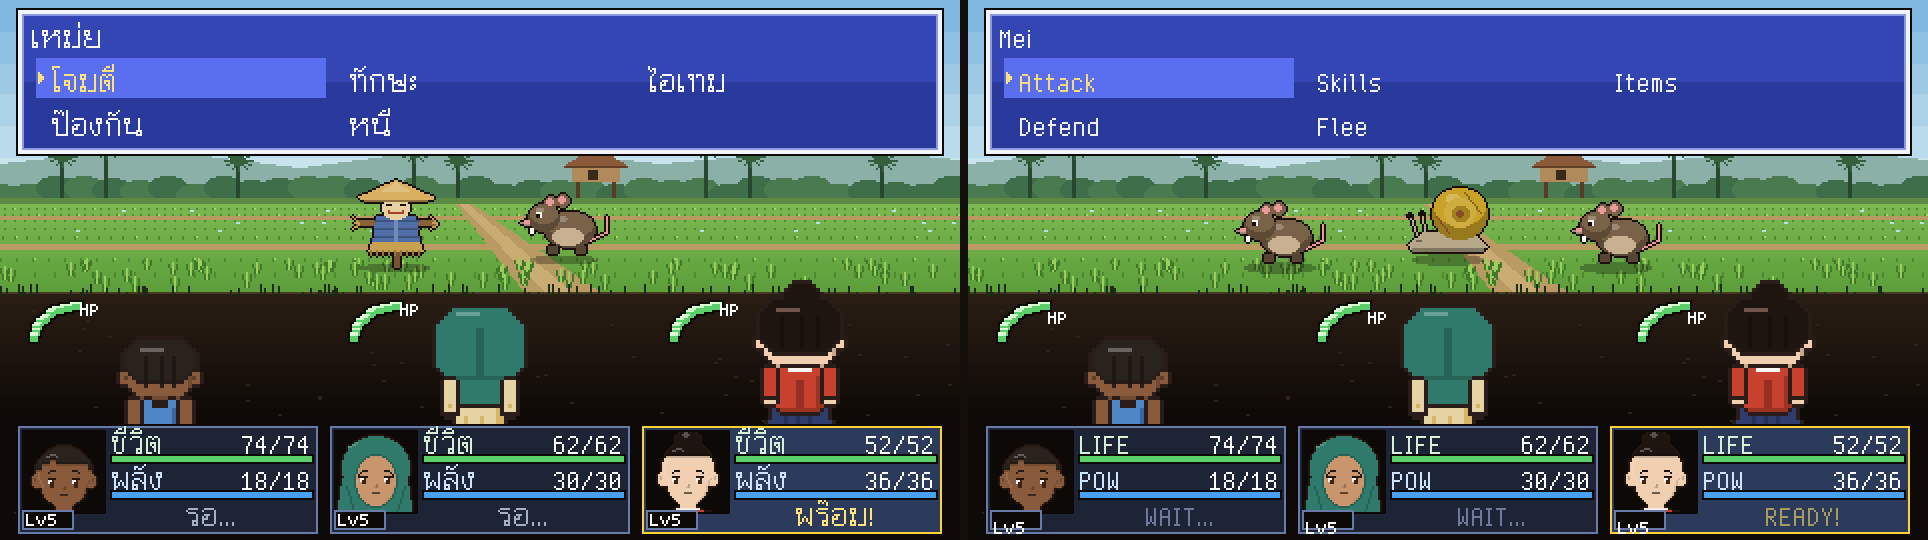
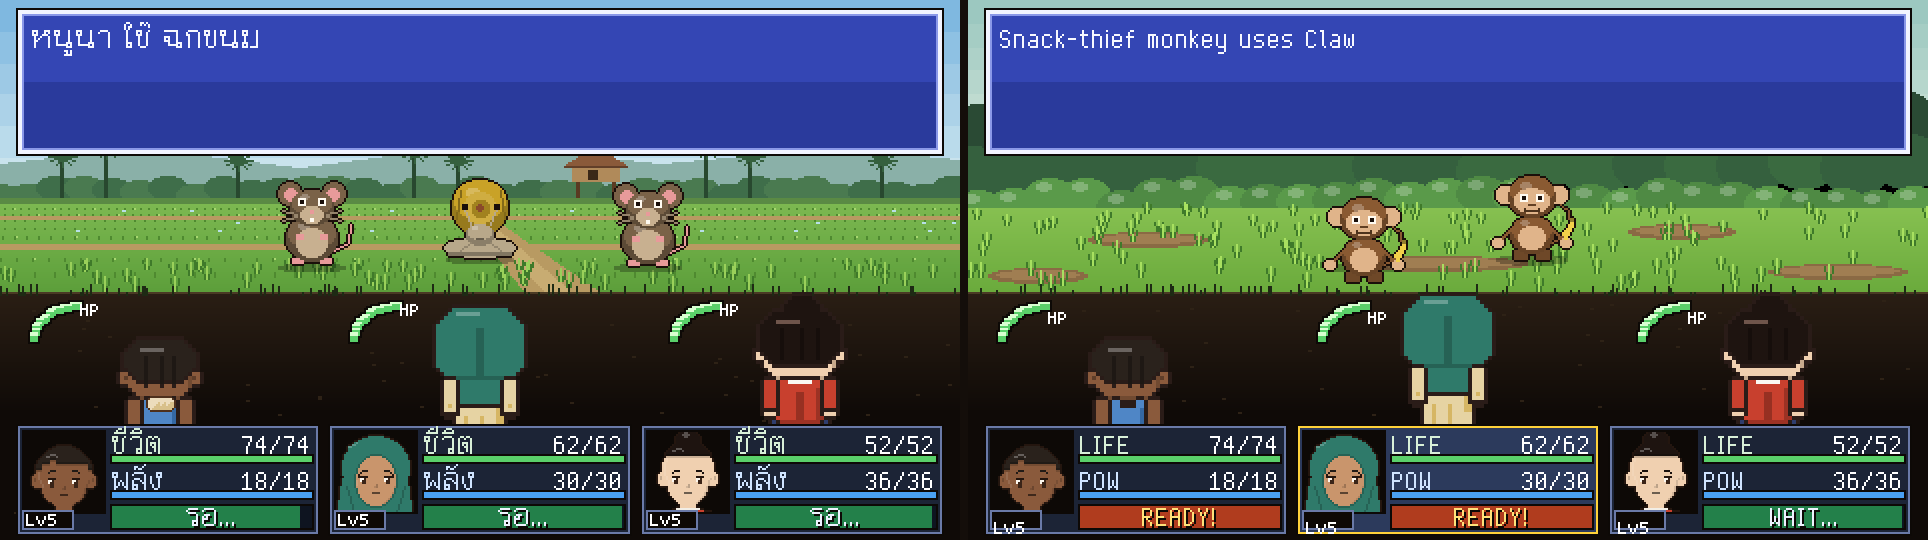
Docs: front-facing back-view enemies, ATB timing (README, FORMAT, MCP, CREDITS, SKILL draft, export READMEs); new README screenshot

diff --git a/docs/FORMAT.md b/docs/FORMAT.md
@@ -38,22 +38,27 @@ unique across documents (`check` names both files on a clash). Every display nam
 | enemy | `id`, `name`, `level`, `stats`, `skills [{ skill, weight }]`, `weak?`, `resist?`, `immune?`, `xp`, `coins`, `drops? [{ item, chance %, n? }]`, `loot?` (Easy Items loot table), `art` (built-in art: monkey, crab, mosquito, monitor, cobra, bat, boar, rooster, scorpion, bandit, mud, crocodile, tiger, kite, snail, rat, scarecrow), `palette?` (3 colours), `boss?` |
 | encounter | `id`, `name?`, `regions?` (Easy Tilemap overworld region ids), `cultures?` (thai · malay · chinese · rural · city · any), `terrains` (any · grass · forest · mountain · field · road · beach · water · town · cave), `rate` (average steps between fights), `groups [{ enemies (1–5 ids), weight, levelBonus? }]`, `music?`, `background?`, `scripted?` |
 | item | `item` (Easy Items id), `hp?`, `mp?`, `cures?`, `target?` (`ally` · `all_allies`) |
-| ui | one object per document (later documents win): `layout?` (`classic` · `backview`), `status?` (`rows` · `cards` · `none`; `backview` + `rows` becomes `cards` with a warning), `backdrop?` (`auto` · `paddy` · `forest`) |
+| ui | one object per document (later documents win): `layout?` (`classic` · `backview`), `status?` (`rows` · `cards` · `none`; `backview` + `rows` becomes `cards` with a warning), `backdrop?` (`auto` · `paddy` · `forest`), `timing?` (`turn` · `atb`), `atbMode?` (`wait` · `active`; only with `atb`) |
 
 ### Battle screen
 
 ```json
-{ "format": "easybattle/1", "id": "screen", "ui": { "layout": "backview", "status": "cards", "backdrop": "auto" } }
+{ "format": "easybattle/1", "id": "screen", "ui": { "layout": "backview", "status": "cards", "backdrop": "auto", "timing": "atb", "atbMode": "wait" } }
 ```
 
 * **classic** — side view (enemies left, party right), message bar on top; `rows` shows the HP / MP panel, `cards`
   the status cards along the bottom with the command list under the message bar.
 * **backview** — a blue message window (rows: message, then a 3 × 2 command grid, paged past six entries),
-  enemies standing in one row on the backdrop (feet on the horizon), the party from behind at 2× with a curved HP
+  enemies facing the camera in one row on the backdrop (feet on the horizon; `enemies/<art>_front.png`, idle bob),
+  the party from behind at 2× with a curved HP
   gauge each, and status cards at the bottom (`none` hides them).
 * **status cards** — Easy Portrait face (40 × 40 crop; worried at ≤ 30 % HP, sad when down, happy on a win), Lv,
   LIFE (HP) and POW (MP) with bars and numbers (four heroes: numbers only), and READY! for the hero choosing a
   command, WAIT... for everyone else, DOWN for fallen heroes. The highlighted card is the one that is READY!.
+* **timing** — `turn`: rounds, fastest first. `atb`: gauges fill by SPD + 10 per step (full = 1000, 30 steps / s);
+  full = READY! (hero menu opens, enemies act), the card's time bar (`cards[n].time`, behind the state label) shows
+  the fill. `atbMode: "wait"` stops time in menus, `"active"` does not. Seeded and step-based, so it is
+  deterministic (engine: `advance(steps, menuOpen)`, `ready()`, `readyActor()`, `act(action, who)`).
 
 Exports write `ui` into `easybattle.json` with the resolved settings, the rectangles for every layout × status ×
 party size (`ui.layouts["backview:cards"]["3"]`), the labels (`ui.text`, th / en / ms) and sheet rows / frames.

diff --git a/README.md b/README.md
@@ -52,10 +52,11 @@ MCP server; local only, no network.
 
 ### Back-view layout and status cards
 
-<img src="docs/assets/backview.png" alt="Back-view layout: Godot in Thai (left) and PixiJS in English (right), paddy pests on a rice-field backdrop, the party from behind with HP arcs and status cards" />
+<img src="docs/assets/backview.png" alt="Back-view layout with ATB: Godot in Thai (left, front-facing paddy pests, everyone WAIT... over green time bars) and PixiJS in English (right, active mode: a monkey acts while two heroes are READY!)" />
 
 `"ui": { "layout": "backview" }` switches to a 16-bit **back view**: a blue message window on top (message on the
-first row, a 3 × 2 command grid on the other two), enemies in a row on a paddy-field or forest-edge backdrop, the
+first row, a 3 × 2 command grid on the other two), enemies **facing the camera** in a row on a paddy-field or
+forest-edge backdrop (front-view art with an idle bob and a white hit flash; the classic view keeps the side art), the
 party seen from behind (Easy Sprite top-down sheets, back row, 2×) with curved HP gauges, and a row of **status
 cards**: Easy Portrait face (worried at low HP, sad when down), Lv badge, LIFE and POW (MP) bars with numbers and
 **READY! / WAIT... / DOWN** from turn order. Cards also work in the classic layout (`"status": "cards"`). Battle text
@@ -68,9 +69,30 @@ The classic side view stays the default, and older exports (without `ui`) keep w
 | `layout` | `classic` (side view, default) · `backview` |
 | `status` | `rows` (classic HP / MP panel, default for classic) · `cards` (default for backview) · `none` |
 | `backdrop` | `auto` (forest for forest / mountain / cave terrain, else paddy) · `paddy` · `forest` |
+| `timing` | `turn` (rounds in SPD order, default) · `atb` (active time battle) |
+| `atbMode` | `wait` (time stops while a command menu is open, default) · `active` (time keeps running) |
 
 Set it in any document, override per battle with `Battle.start(setup, parent, {"layout": "backview"})` (Godot) or
 `start(app, setup, { layout: "backview", status: "cards" })` (Pixi), or try `index.html?layout=backview`.
+
+### ATB (active time battle)
+
+`"ui": { "timing": "atb" }` swaps rounds for **time gauges**: every fighter's gauge fills by SPD + 10 per time
+step (30 steps a second at speed 1; a full gauge is 1000). A full gauge reads **READY!** and opens that hero's
+command menu; everyone else reads **WAIT...** over a time bar that fills along the bottom of the status card
+(green while filling, orange-red when full). Enemies act as soon as theirs fill. `"atbMode": "wait"` stops time
+while you choose; `"active"` keeps it running, so an enemy can act in the middle of your choice (your menu comes
+back afterwards). Start gauges are random but seeded (a second mulberry32 stream), and time moves in whole steps,
+so the same seed and the same inputs give the same battle in TypeScript, Pixi and Godot (`parity.json` has
+`atb_wait` and `atb_active` cases). Poison, regen and status turns tick when the fighter acts; a round counter
+advances every 60 steps.
+
+```gdscript
+Battle.start(setup, self, {"layout": "backview", "timing": "atb", "atbMode": "active"})
+```
+```js
+eb.start(app, setup, { layout: "backview", timing: "atb", atbMode: "wait" }); // or index.html?timing=atb&atb=active
+```
 
 ## Starter battles
 

diff --git a/docs/MCP.md b/docs/MCP.md
@@ -21,7 +21,7 @@ Client config (stdio):
 | `check_battles` | `items?`, `overworld?` | `{ ok, errors, warnings, cross }`: drops / battle items vs an Easy Items workspace, encounter regions vs an Easy Tilemap overworld map |
 | `simulate_battle` | `party [{id, level}]`, `enemies? [{id, level?}]` or `table?`, `seed?`, `runs?`, `items?` | one auto battle: `result`, `rounds`, `rewards` (xp, coins, drops, level-ups), `snapshot`, `log`; with `runs > 1`: `winRate`, `avgRounds` |
 | `roll_encounter` | `region?`, `culture?`, `terrain?`, `seed?`, `times?` | `{ rolls: [{ seed, table, rate, enemies }] }` |
-| `render_battle` | `what?` (battle · bestiary), `party?`, `enemies?`, `seed?`, `turns?`, `scale?`, `layout?` (classic · backview), `status?` (rows · cards · none), `backdrop?` (auto · paddy · forest) | PNG image (no text); the layout defaults to the workspace `ui` |
+| `render_battle` | `what?` (battle · bestiary), `party?`, `enemies?`, `seed?`, `turns?`, `scale?`, `layout?` (classic · backview), `status?` (rows · cards · none), `backdrop?` (auto · paddy · forest) | PNG image (no text); the layout defaults to the workspace `ui`. Back-view enemies use the front-facing art |
 | `export_battle` | `preset?`, `out?`, `bundle?`, `font?` | written folders, file count, bundled fx / sfx, bundled fonts, warnings. `out` must stay inside the workspace |
 
 Errors carry JSON paths (`game.easybattle.json.enemies[0].skills`) so an agent can fix them in place. Document

diff --git a/SKILL.draft.md b/SKILL.draft.md
@@ -22,7 +22,9 @@ Easy Battle **validates, simulates and exports** `easybattle/1` battle databases
    40–70 % against bosses one or two levels early.
 5. **Look.** `render --what battle|bestiary --out <png>` and open the PNG. For a 16-bit back-view screen (blue
    window, party from behind, HP arcs, portrait status cards with READY!/WAIT...) set `"ui": {"layout": "backview"}`
-   in a document and preview with `render --layout backview --status cards`.
+   in a document and preview with `render --layout backview --status cards`. For active time battle add
+   `"timing": "atb"` (gauges fill by SPD, READY!/WAIT... with time bars on the cards) and `"atbMode": "wait"` (time
+   stops in menus) or `"active"`.
 6. **Export.** `export --preset godot` or `pixi`; for Godot run `test_battle.gd` headless and expect `OK`.
 
 ## Rules

diff --git a/CREDITS.md b/CREDITS.md
@@ -3,6 +3,8 @@
 ## Art and sample data (CC0 1.0)
 
 * The 17 enemies are **drawn from code** (`src/lib/art.ts`): no source images, no AI generation, no network calls.
+  Each has a side view (facing left, classic layout) and a front view (facing the camera, back view); both are
+  original pixel art, CC0 1.0.
 * The back-view backdrops (paddy field, forest edge) are **drawn from code** (`src/lib/backdrop.ts`), CC0 1.0.
 * Hero sheets in `assets/heroes/` are Easy Sprite characters composed from Easy Sprite parts (CC0 1.0): side-view
   sheets (`<id>.png`) and top-down sheets for the back view (`<id>_back.png`, back row), regenerated by
